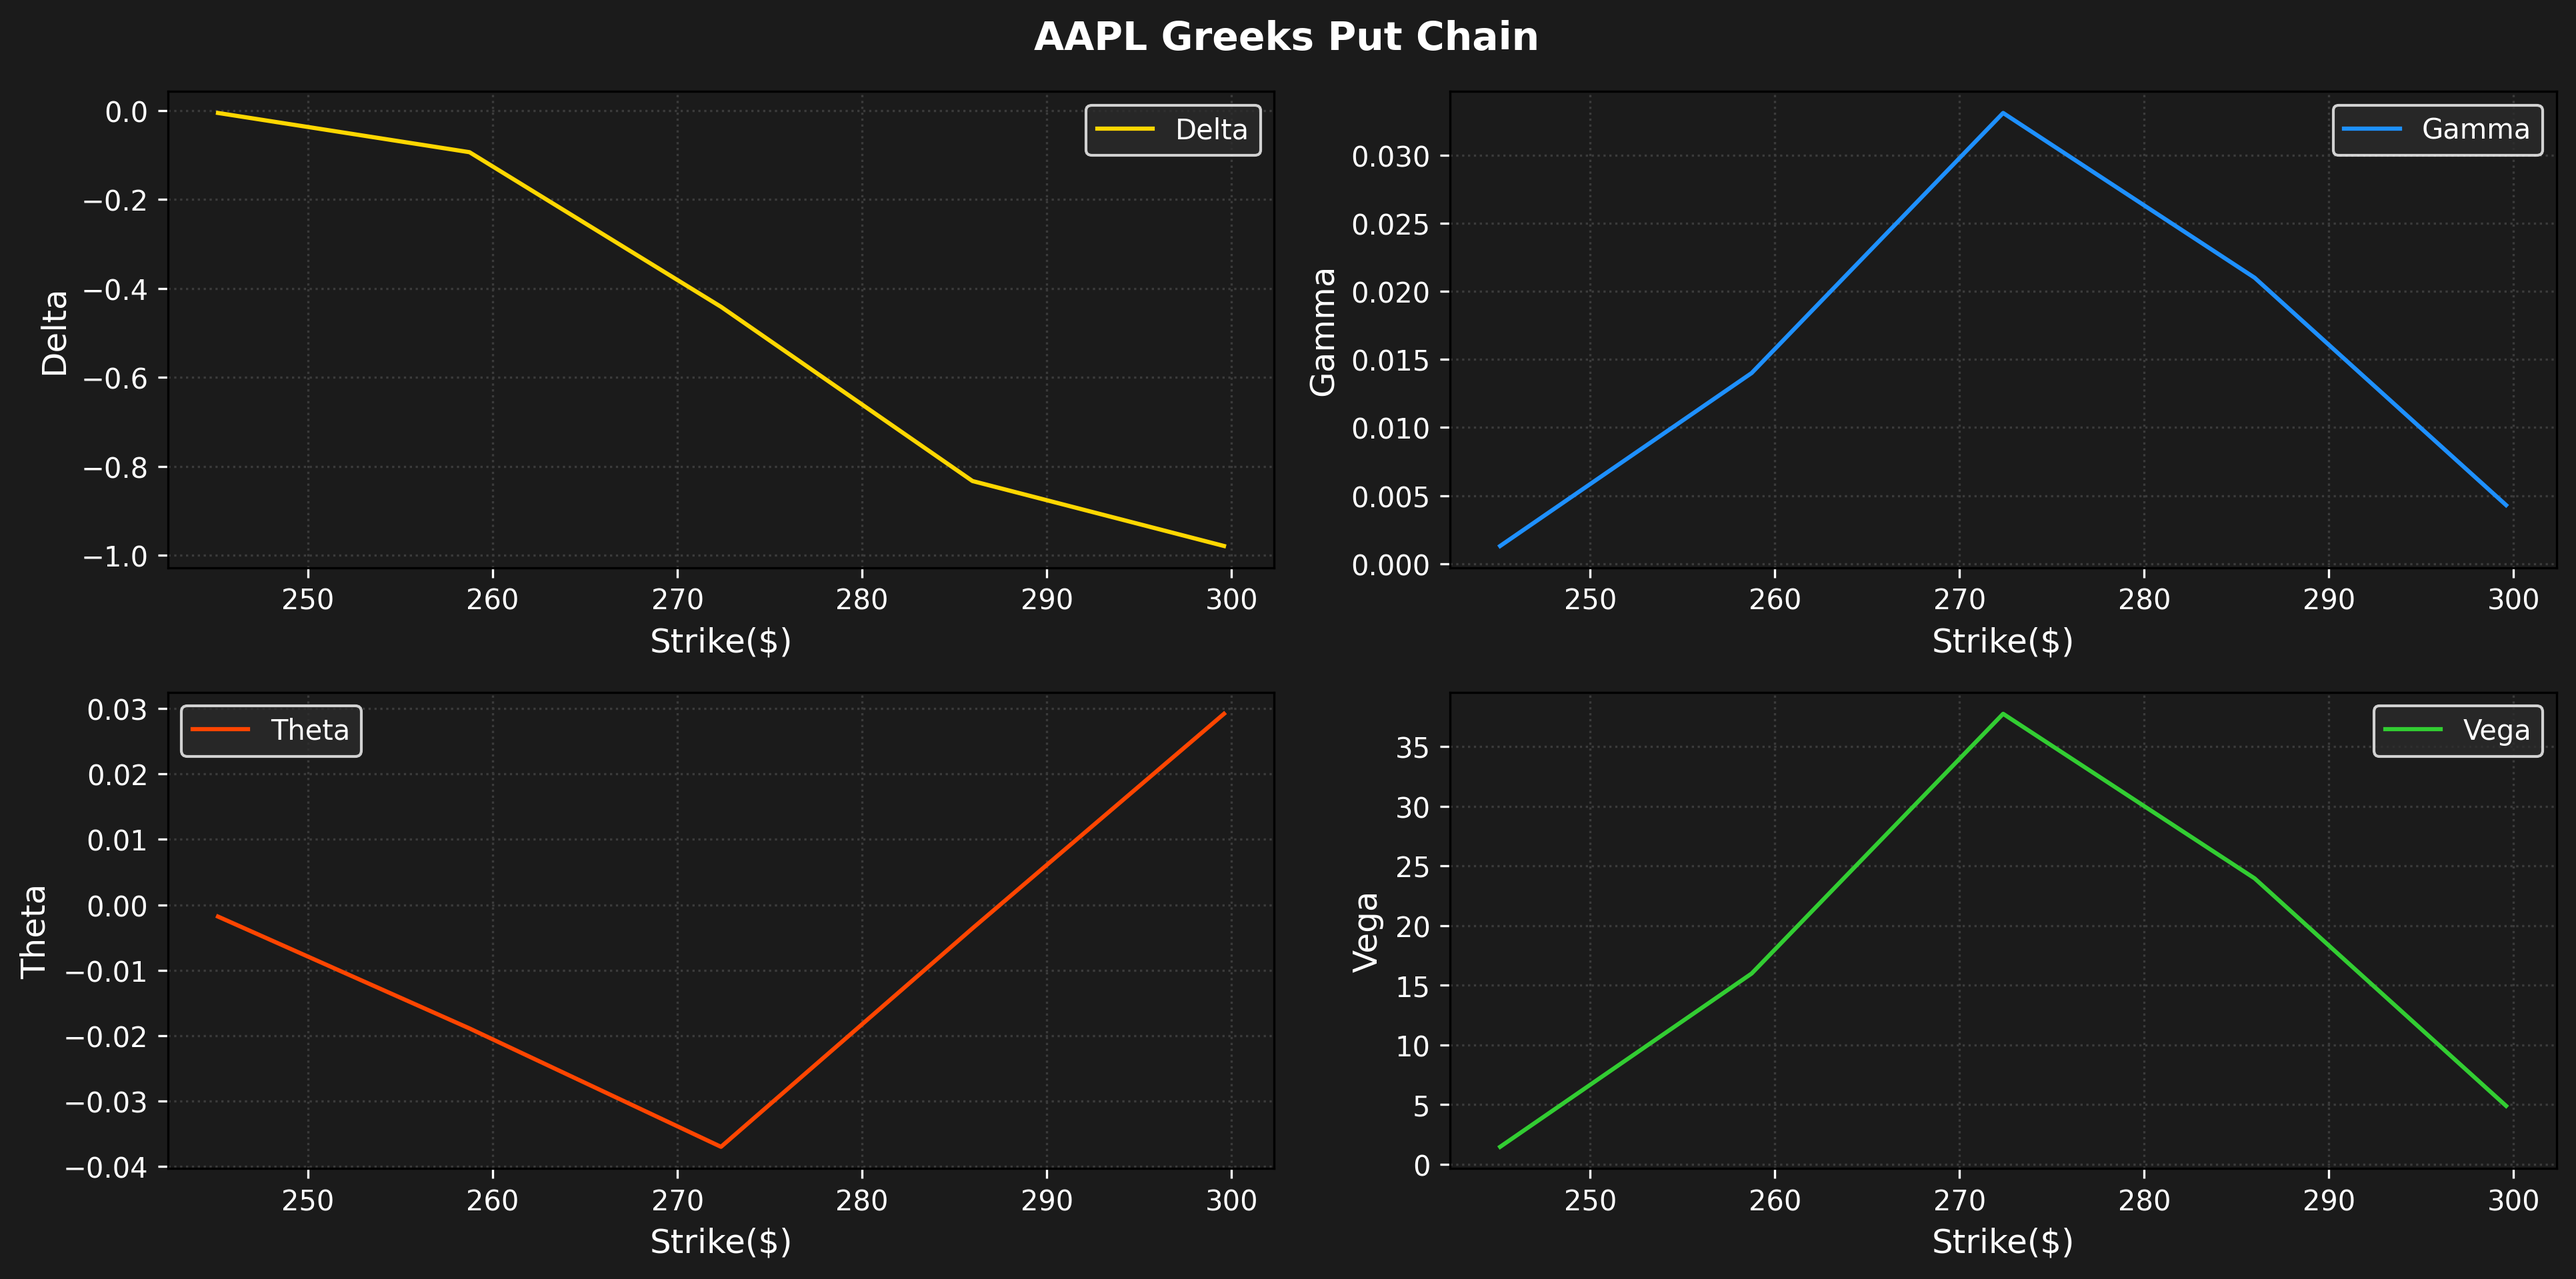
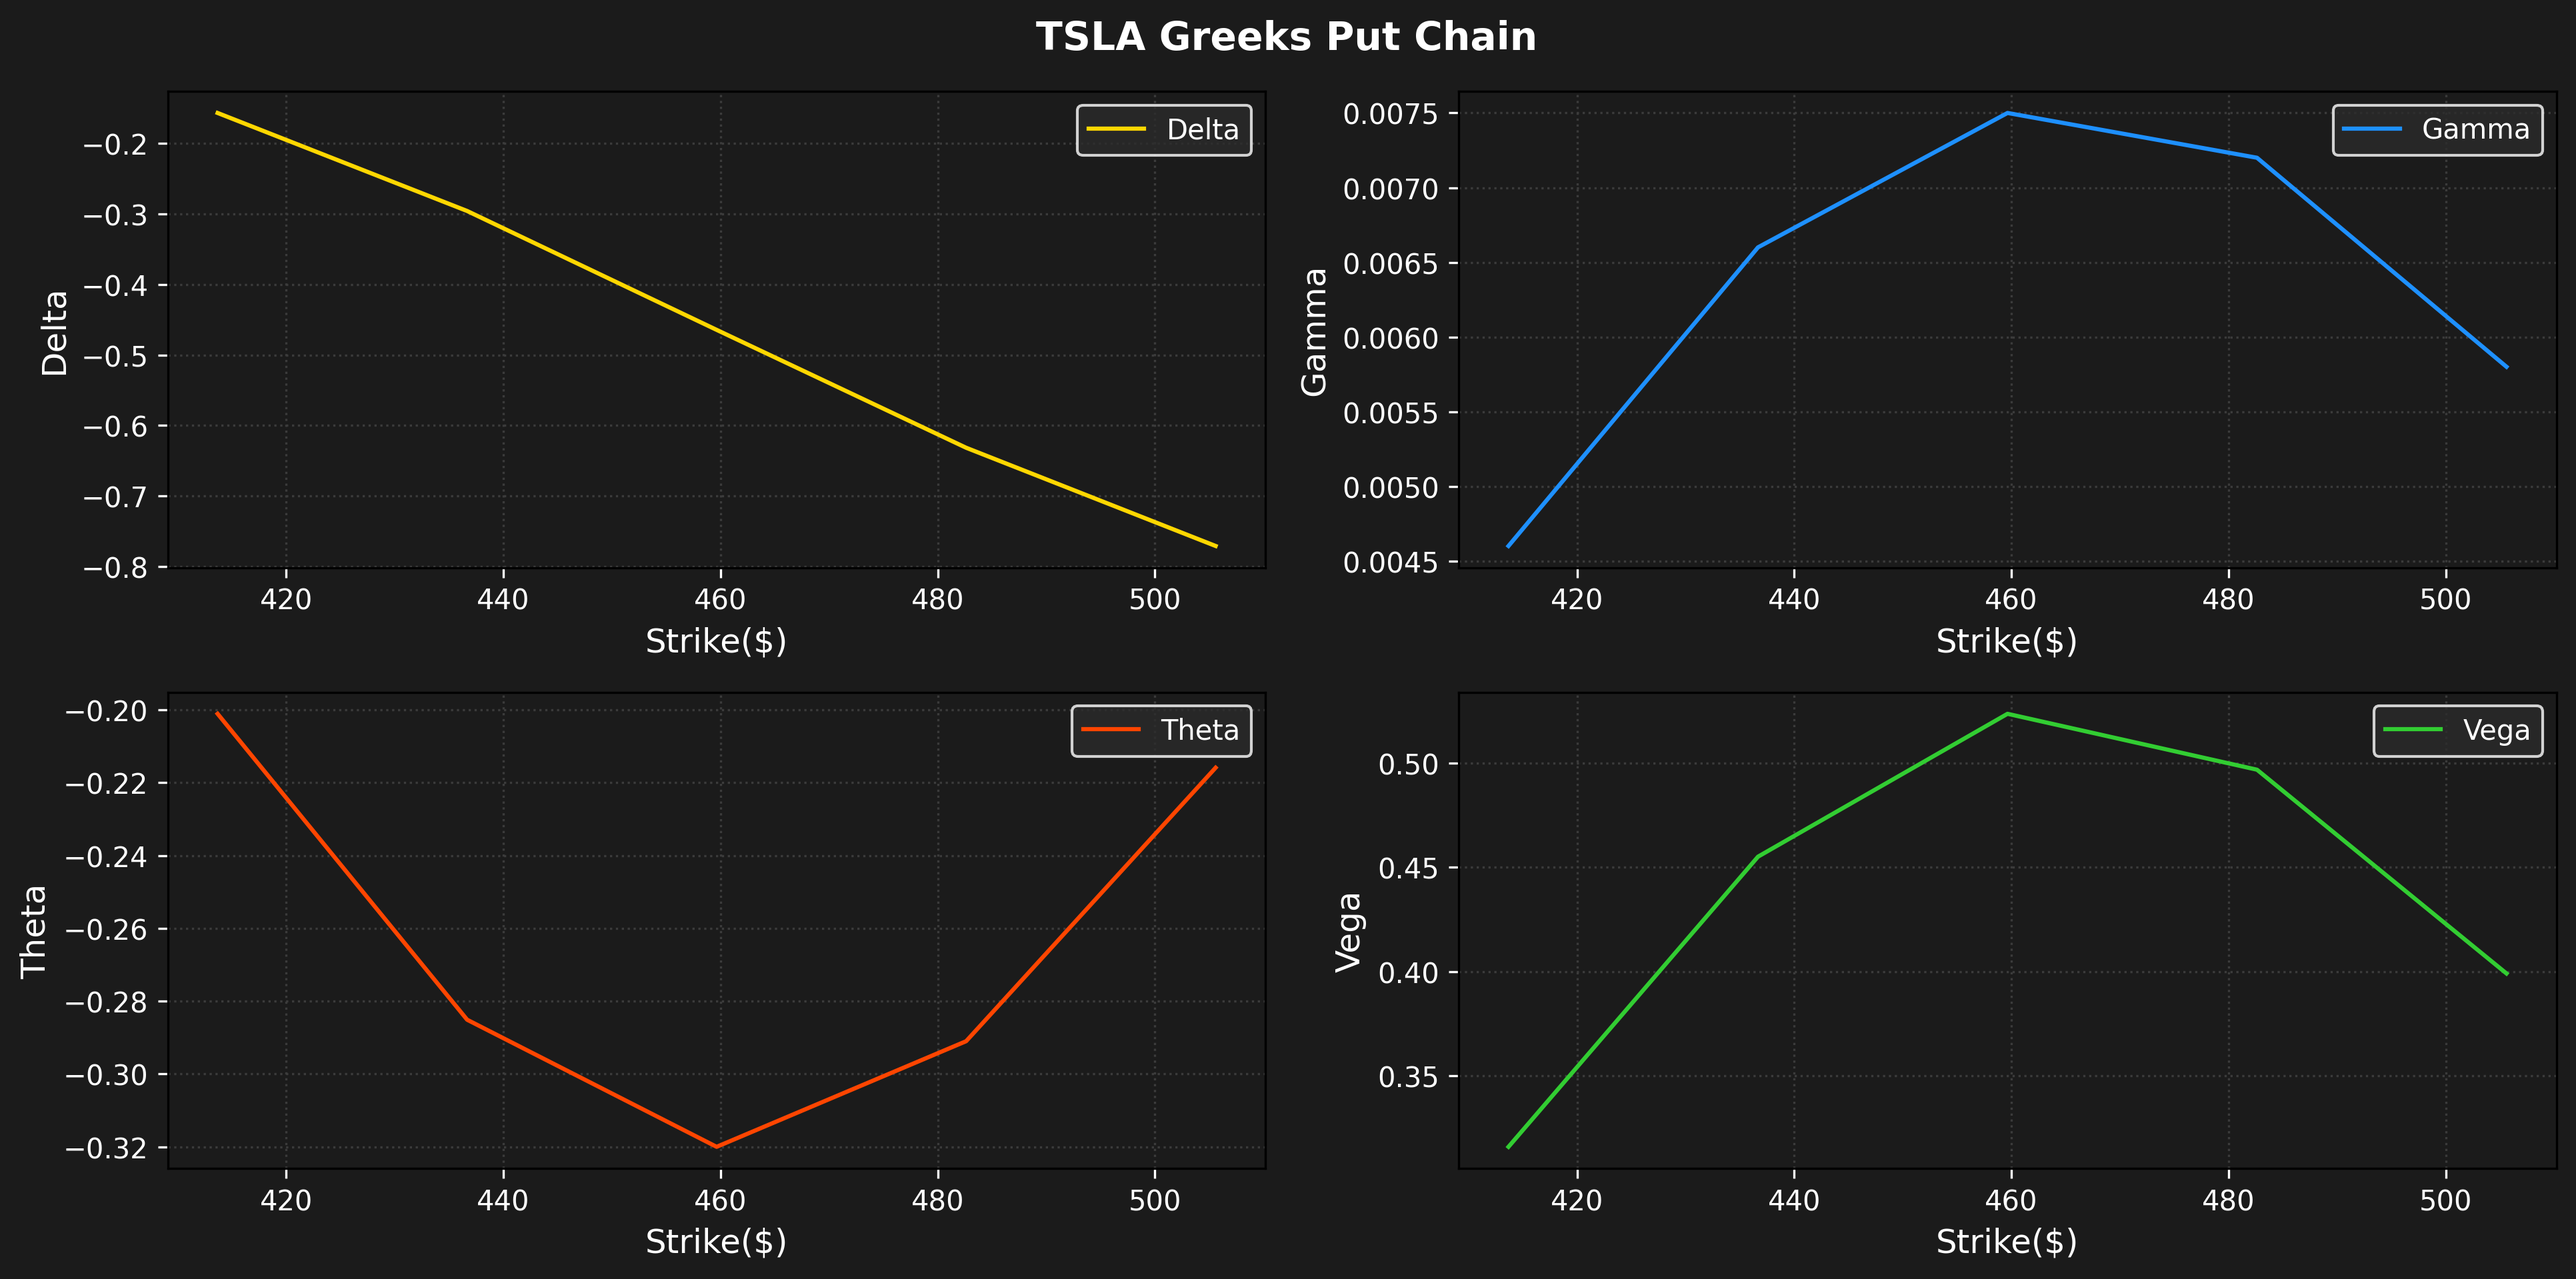
changed vega, updated examples

diff --git a/README.md b/README.md
@@ -37,16 +37,17 @@ Fetches market data with yfinance, estimates historical volatility, computes opt
     -Choose 1 for single option, 2 for option chain
 8. View results in the "output" folder, sorted by stock_date_expiration.
 
+(Try python3/pip3 if issues)
 
 ## Example outputs
 
 **Single Option**:
 
-![Inputs & Output](examples/single_option/inputs&output.png)
+![Inputs & Output](examples/single_option/inputs&outputs.png)
 ![Single P&L Chart](examples/single_option/call_270.00_pnl.png)
 
 **Option Chain**:
 
-![Option Chain CSV](examples/option_chain/option_chain_csv.png)
+![Option Chain CSV](examples/option_chain/put_chain_csv.png)
 ![Chain P&L Chart](examples/option_chain/put_chain_pnl.png)
 ![Chain Greeks Chart](examples/option_chain/put_chain_greeks.png)
